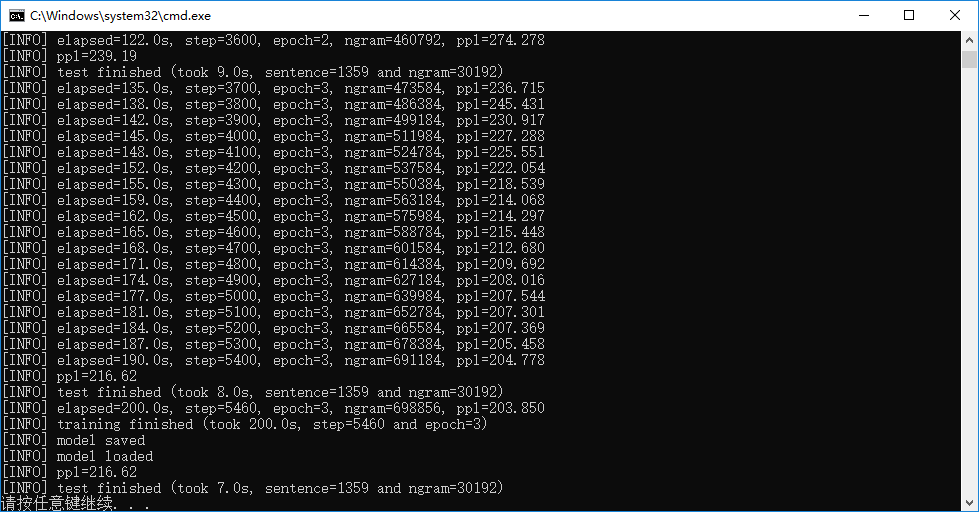
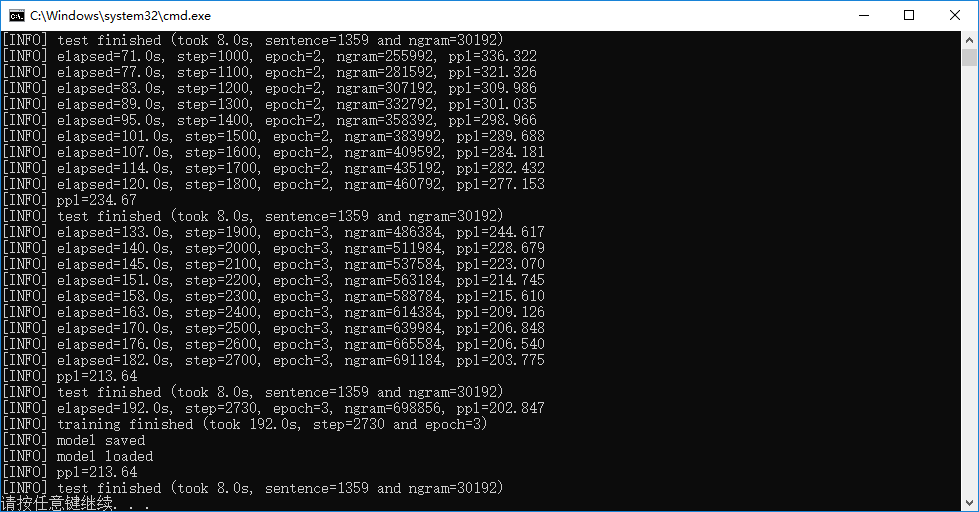
impove ppl to 213.64

diff --git a/README.md b/README.md
@@ -1,14 +1,18 @@
 # mt_task
 任务2：对前馈神经网络调参
 
-Windows运行参数
--fnnlm -dev 0 -lrate 0.006 -wbatch 128 -minmax 0.1 -nepoch 3 -n 5 -hdepth 1 -hsize 128 -esize 100 -train $(ProjectDir)\data\wsj.train -test $(ProjectDir)\data\wsj.test -output $(ProjectDir)\work\wsj.prob -vsize 10000 -model $(ProjectDir)\work\wsj.model -autodiff
+Windows运行参数：<br>
+```
+-fnnlm -dev 0 -lrate 0.0065 -wbatch 256 -minmax 0.1 -nepoch 3 -n 5 -hdepth 1 -hsize 128 -esize 100 -train $(ProjectDir)\data\wsj.train -test $(ProjectDir)\data\wsj.test -output $(ProjectDir)\work\wsj.prob -vsize 10000 -model $(ProjectDir)\work\wsj.model -autodiff
+```
 
-更改了：
--lrate
--nepoch
--n
-
-ppl值降到216.62
+更改了：<br>
+```
+-lrate<br>
+-wbatch<br>
+-nepoch<br>
+-n<br>
+```
+ppl值降到213.64
 
 ![image](http://github.com/zhaoxf4/mt_task/raw/master/images/result.png)
